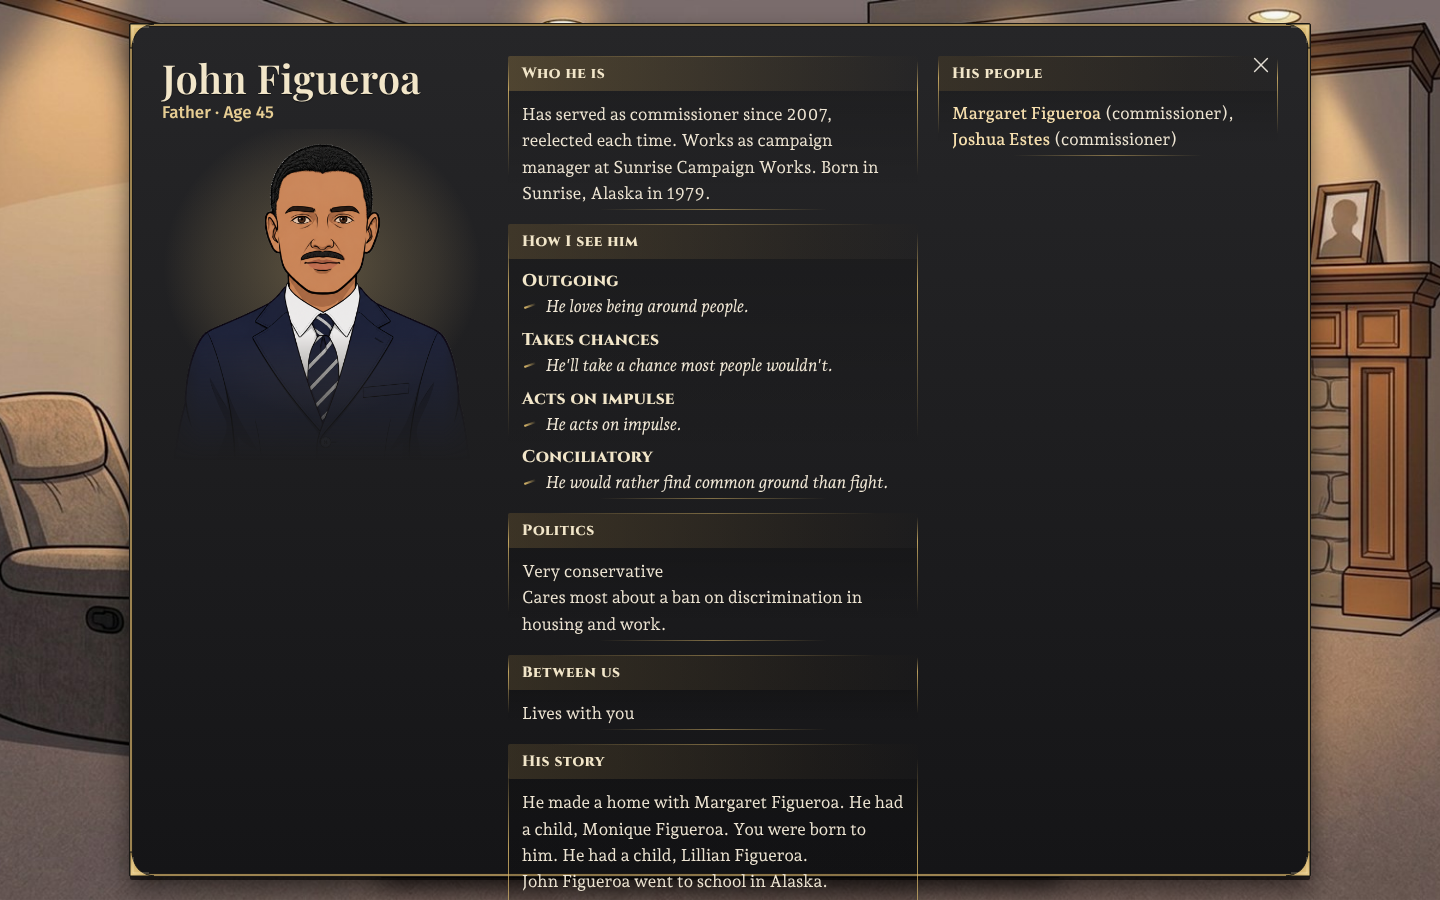
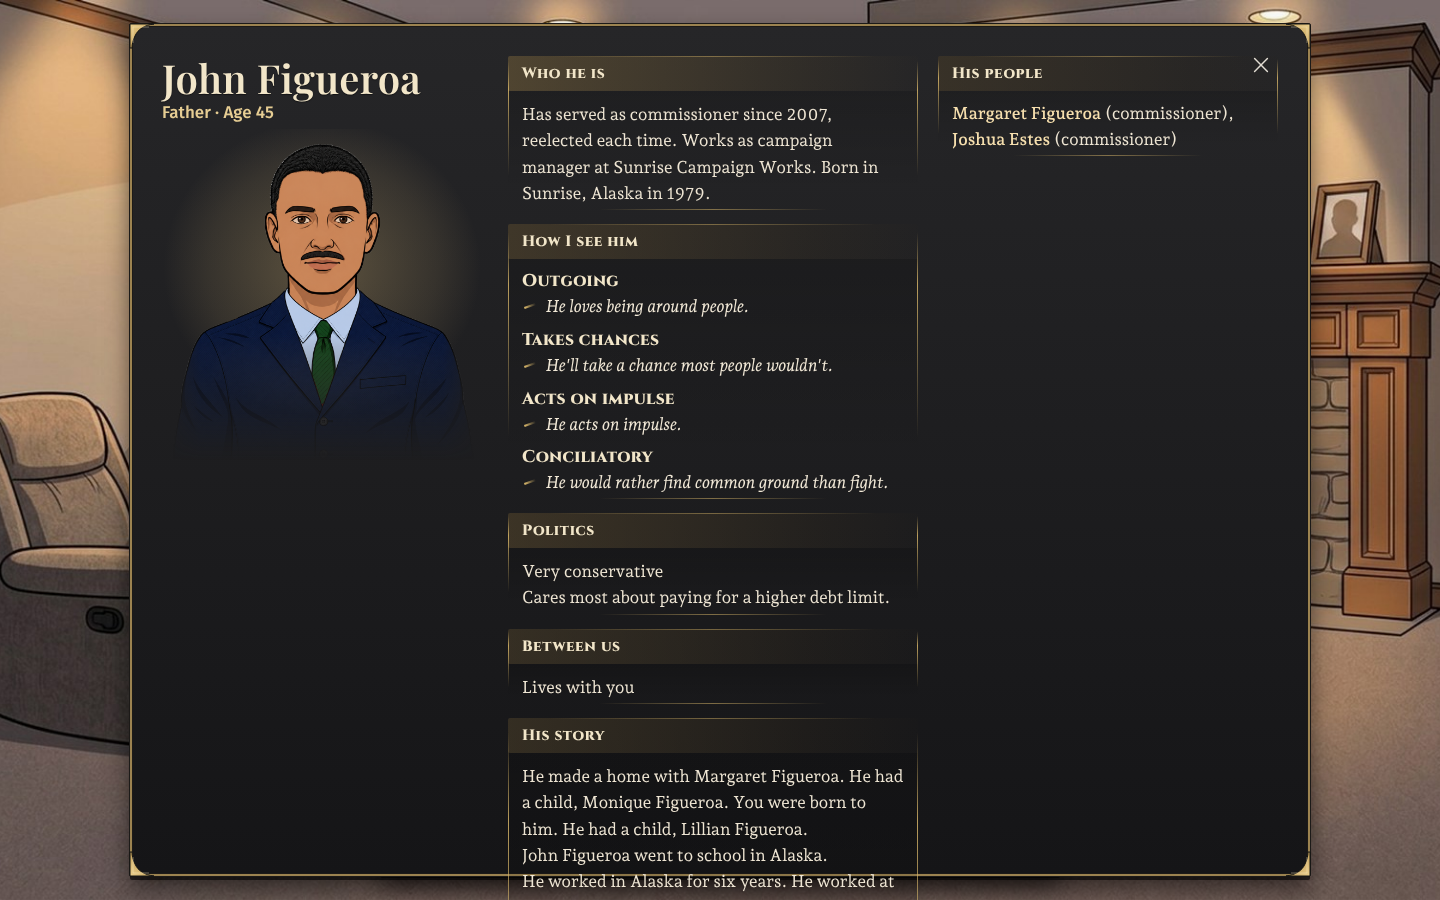
Own views: Sunrise retaken; the reply calls the player's father "Dad"
Claude-Session: https://claude.ai/code/session_01S4WSHpZG48m8KchppwJnwx

Changed region(s): [[0.3438, 0.6533, 0.625, 0.9956], [0.1875, 0.3111, 0.25, 0.4356]]

diff --git a/docs/seen/home-own-view/README.md b/docs/seen/home-own-view/README.md
@@ -24,7 +24,7 @@ Each person names the question they care most about and their side. Their card t
 
 - Canaan: "I should tell you, I lean conservative. I'd vote against a clean electricity standard every time." The replies are "Good to know." / "Mine's private." / "I'd vote the other way, Sean.". Picking the last: "I still think I'm right."
 - Bonanza: "I should tell you, I lean liberal. I've always backed a ban on discrimination in housing and work." The replies are "Good to know." / "Rather not say." / "No argument from me, Annette.". Picking the last: "Good. I thought it was just me."
-- Sunrise: "I'm a conservative, and I don't mind who knows it. If it's a ban on discrimination in housing and work, count me out." The replies are "Good to know." / "I'll keep mine." / "I'd vote your way, John.". Picking the last: "Good. I thought it was just me."
+- Sunrise, retaken at 129f6fe3: "I'm a conservative, and I don't mind who knows it. If it's paying for a higher debt limit, count me in." The replies are "Good to know." / "I'll keep mine." / "I'd vote your way, Dad.": the player is John Figueroa's child, so a reply calls him "Dad", as the greetings do (Fable B's check, Nov 11). Picking the last: "Good. I thought it was just me." His card: "Cares most about paying for a higher debt limit."
 
 Asking why ("Why that one?", "How come?") is offered only when the person has a reason on record, their employer or money. None of these three had one.
 
